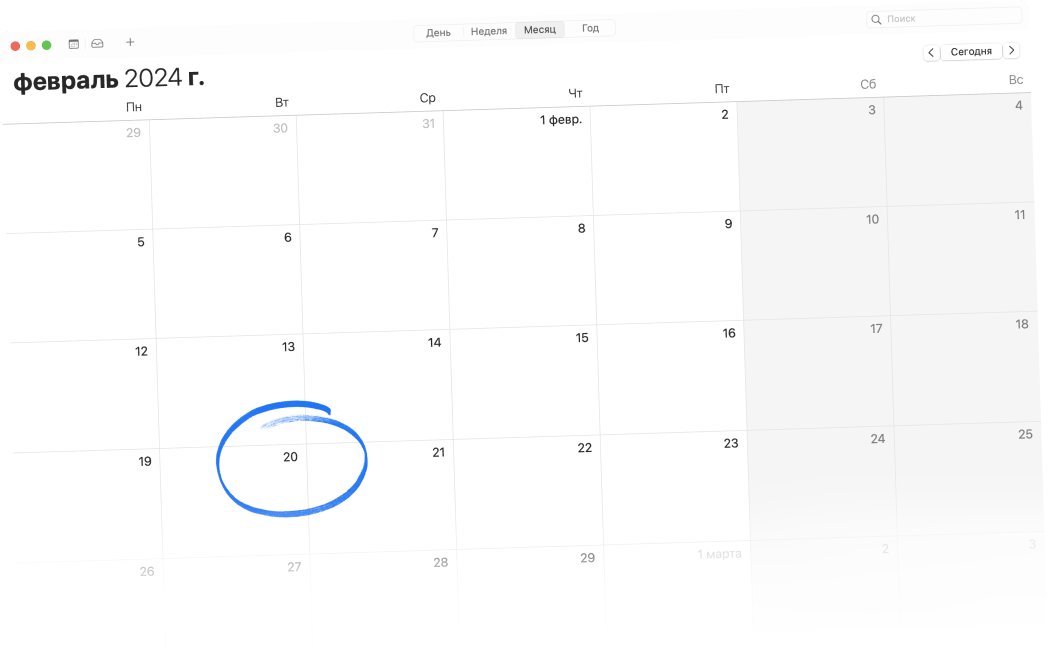
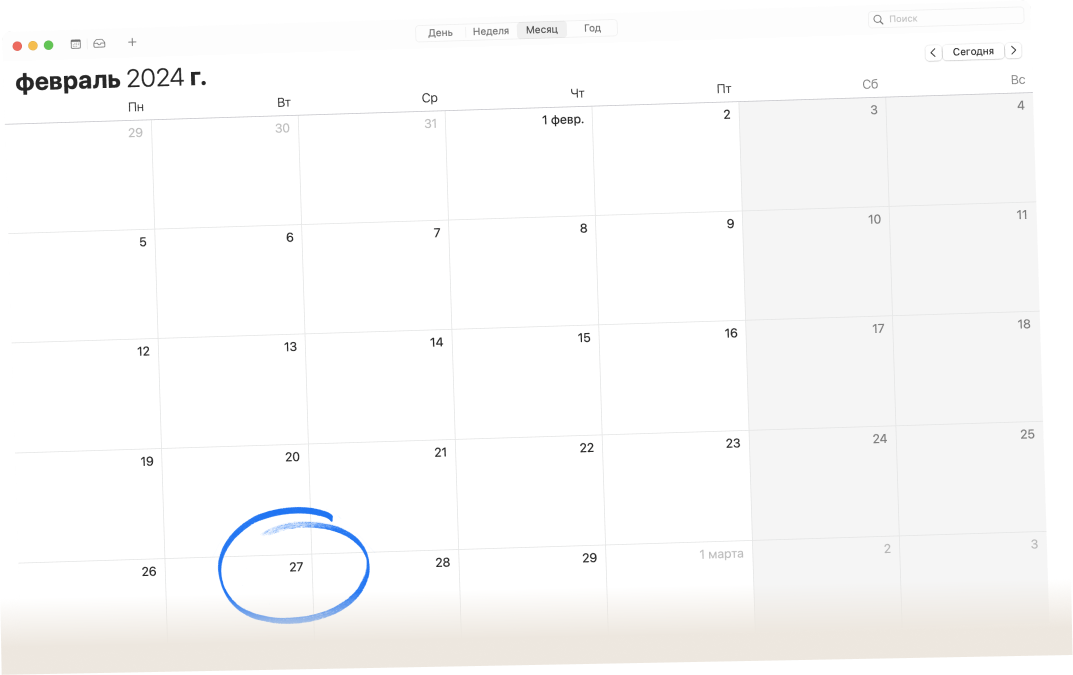
Update changes

diff --git a/src/components/EventAd.tsx b/src/components/EventAd.tsx
@@ -37,12 +37,12 @@ const EventAd: React.FC = () => {
             </div>
 
             <div className='relative flex flex-col w-full z-20 text-center'>
-                <div className="max-md:hidden text-center mt-4 mb-4">
-                    <h1 className="font-[700] md:text-[150px] md:leading-[124px] -tracking-[0.04em]">20 февраля <span className="text-blue-600">бесплатно</span></h1>
+                <div className="max-md:hidden text-center mt-20 mb-4">
+                    <h1 className="font-[700] md:text-[150px] md:leading-[124px] -tracking-[0.04em]">27 февраля <span className="text-blue-600">бесплатно</span></h1>
                 </div>
 
                 <div className="md:hidden flex justify-center text-center mt-0 mb-4">
-                    <h1 className="font-[700] text-[70px] leading-[56px] -tracking-[0.07em]">20 фев <span className="text-blue-600">Бесплатно</span></h1>
+                    <h1 className="font-[700] text-[70px] leading-[56px] -tracking-[0.07em]">27 фев <span className="text-blue-600">Бесплатно</span></h1>
                 </div>
 
                 <p className="font-[500] text-[16px] md:text-[32px] leading-[16px] md:leading-[32px] -tracking-[0.04em] text-center max-w-[620px] text-black/60 mx-auto">

diff --git a/src/components/WhyChooseDesigning.tsx b/src/components/WhyChooseDesigning.tsx
@@ -38,7 +38,7 @@ const WhyChooseDesigningList = () => {
                 </div>
                 <div className="w-full">
                     <p className={`font-[700] text-[24px] md:text-[32px] leading-[25.2px] md:leading-[32px] -tracking-[.04em] max-w-[250px] md:max-w-[300px] text-black`}>{'IT-профессия, в которой не нужно программировать'}</p>
-                    <p className="font-[400] text-[16px] leading-[17.6px] text-[#9F9F9F] mt-[8px] md:max-w-[250px]">Это креативная IT профессия которой может обучится каждый</p>
+                    <p className="font-[400] text-[16px] leading-[17.6px] text-[#9F9F9F] mt-[8px] md:max-w-[250px]">Это креативная IT профессия которой может обучиться каждый</p>
                 </div>
             </div>
         </>

diff --git a/src/components/ProductDesignerAd.tsx b/src/components/ProductDesignerAd.tsx
@@ -12,7 +12,7 @@ const ProductDesignerAd: React.FC = () => {
     return (
         <div className="rounded-lg text-white text-center mt-[1rem] mb-[120px] md:mb-0">
             <div className="font-[500] text-[20px] md:text-[35px] leading-[22px] md:leading-[35px] -tracking-[0.04em]">
-                <p>20 февраля в 19:00</p>
+                <p>27 февраля в 19:00</p>
                 <p className='opacity-70'>Бесплатный отрытый урок</p>
             </div>
             <h1 className="text-[60px] md:text-[145px] font-[700] leading-[48px] md:leading-[116px] -tracking-[0.06em] mt-[48px] mb-[26px]">

diff --git a/src/components/Header/Header.tsx b/src/components/Header/Header.tsx
@@ -21,7 +21,7 @@ const Header: FC<HeaderProps> = ({ isScrolled }) => {
 
         {isScrolled && (
           <div className="flex items-center">
-            <p className='font-[400] text-[14px] leading-[16.9px] mr-4'>20 февраля в 19:00</p>
+            <p className='font-[400] text-[14px] leading-[16.9px] mr-4'>27 февраля в 19:00</p>
             <button
               className="bg-gradient-to-r from-[#4164FD] to-[#1C3ED2] font-[400] text-[14px] leading-[16.8px] px-[12px] py-[5px] rounded-full transition duration-300 ease-in-out text-white"
               onClick={() => scrollToElement('event')}
